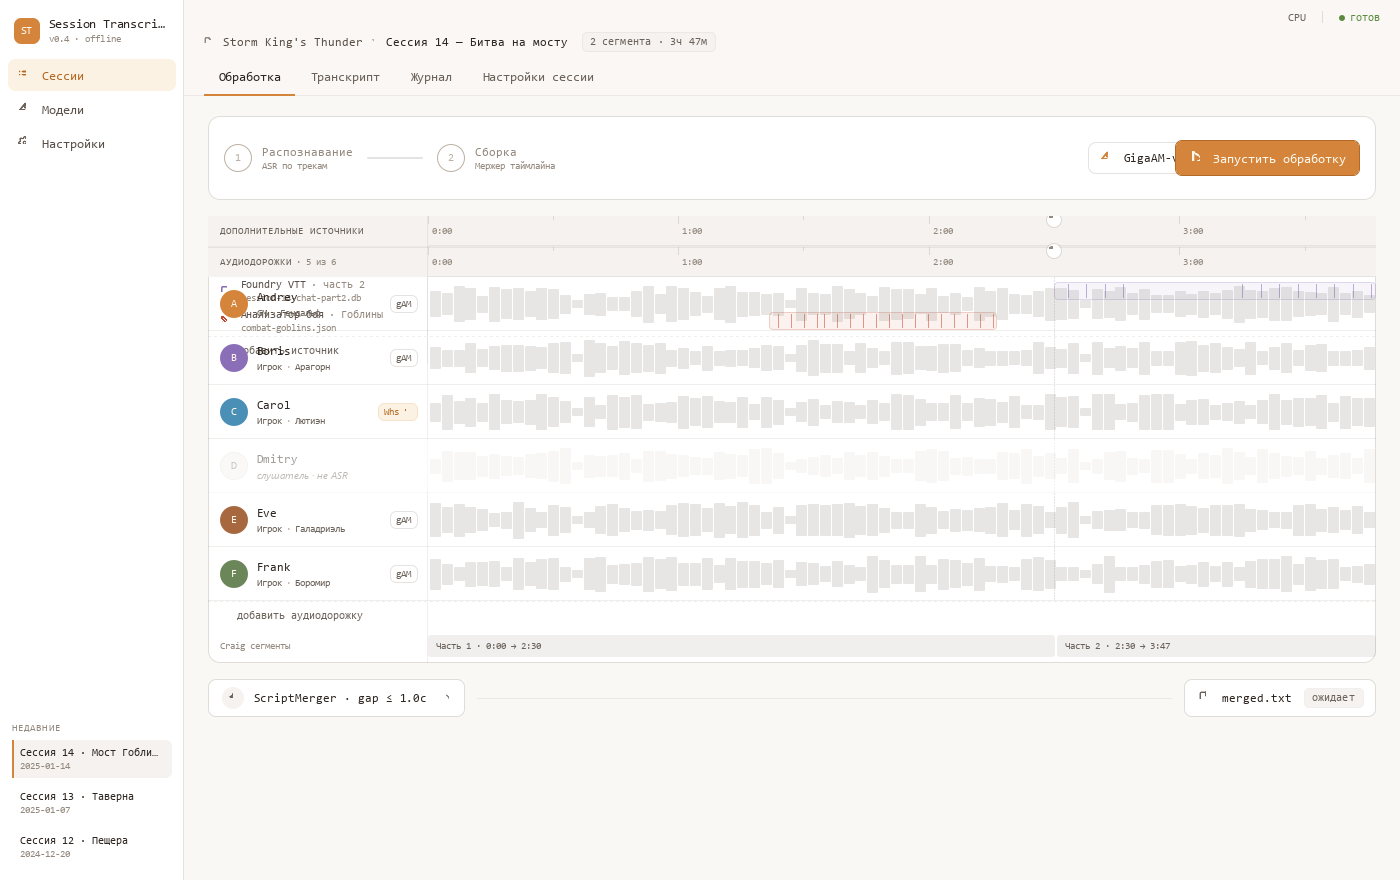
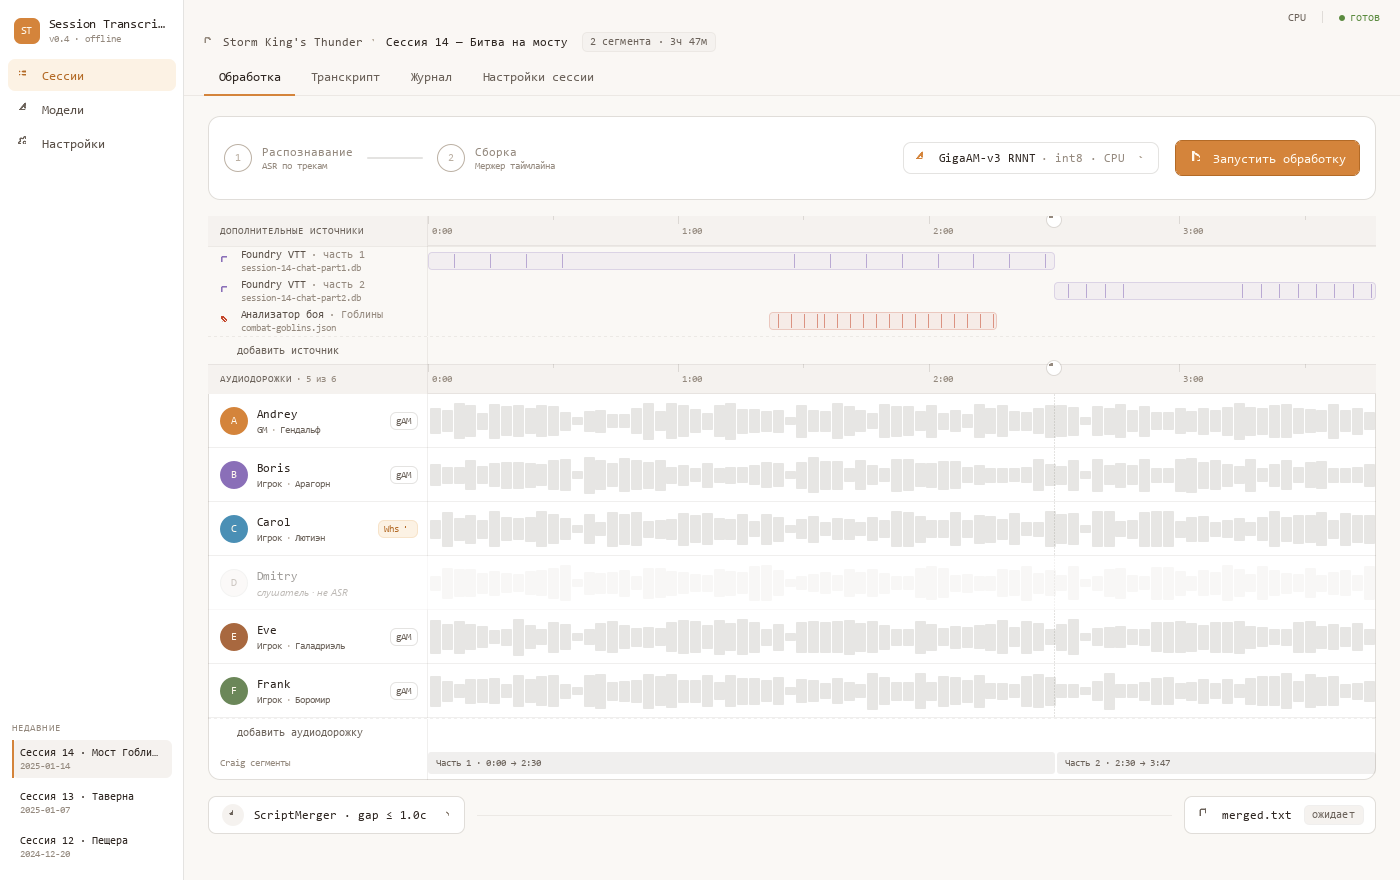
fix(ui): Timeline layout — RunControl width, source lanes height
Two layout bugs surfaced on the first headless screenshot pass:

1. RunControl (the accent "Запустить обработку" area) was an Item
   with implicitHeight but no implicitWidth, and its idle/done/
   running children used anchors.right. In a RowLayout that made
   the Item claim zero horizontal space, so it overlapped the
   EngineBar chip to its left. Fix: publish implicitWidth derived
   from whichever phase-specific child is currently visible
   (idleButton / doneRow / runningCard).

2. The source-lanes container used ``implicitHeight:
   childrenRect.height`` while its ColumnLayout was ``anchors.fill:
   parent``. Anchored children don't contribute to childrenRect,
   so the container collapsed to 0 and the source rows rendered
   outside its bounds, overlapping the tracks panel below. Fix:
   give the ColumnLayout an id (sourcesCol) + top-only anchors,
   and bind the container's ``Layout.preferredHeight`` to
   ``sourcesCol.implicitHeight``. The top-border Rectangle gets
   z: 1 so it sits above the layout's border.

docs/screenshots/qml/timeline.png regenerated from the new layout
— phase-control chip and Run button no longer collide; source
lanes render as three distinct rows (Foundry part 1, Foundry
part 2, Анализатор боя) above the six track rows.

diff --git a/ui/qml/screens/TimelineScreen.qml b/ui/qml/screens/TimelineScreen.qml
@@ -197,8 +197,16 @@ Rectangle {
                             }
 
                             // ── Source lanes ──────────────────────
+                            // Rectangle + ColumnLayout: the layout is
+                            // top-anchored (not anchors.fill) so the
+                            // Rectangle can derive its height from the
+                            // layout's implicitHeight. anchors.fill +
+                            // implicitHeight: childrenRect.height would
+                            // collapse to zero because anchored children
+                            // don't contribute to childrenRect.
                             Rectangle {
                                 Layout.fillWidth: true
+                                Layout.preferredHeight: sourcesCol.implicitHeight
                                 color: Theme.bg
 
                                 Rectangle {
@@ -207,10 +215,14 @@ Rectangle {
                                     anchors.top: parent.top
                                     height: 1
                                     color: Theme.borderSoft
+                                    z: 1
                                 }
 
                                 ColumnLayout {
-                                    anchors.fill: parent
+                                    id: sourcesCol
+                                    anchors.left: parent.left
+                                    anchors.right: parent.right
+                                    anchors.top: parent.top
                                     spacing: 0
 
                                     Repeater {
@@ -233,8 +245,6 @@ Rectangle {
                                         label: "добавить источник"
                                     }
                                 }
-
-                                implicitHeight: childrenRect.height
                             }
 
                             // ── Tracks header ─────────────────────

diff --git a/ui/qml/timeline/RunControl.qml b/ui/qml/timeline/RunControl.qml
@@ -34,8 +34,19 @@ Item {
 
     implicitHeight: 52
 
+    //: Publish the width of whichever state-specific child is currently
+    //: visible so the surrounding RowLayout in TimelineScreen allocates
+    //: enough horizontal space — without this the Item is sized 0 and
+    //: its anchored children render on top of EngineBar to its left.
+    implicitWidth: {
+        if (root.phase === "done") return doneRow.implicitWidth
+        if (root.phase === "asr" || root.phase === "merge") return runningCard.implicitWidth
+        return idleButton.implicitWidth
+    }
+
     // Idle / failed → single primary "Запустить" button.
     PrimaryButton {
+        id: idleButton
         anchors.right: parent.right
         anchors.verticalCenter: parent.verticalCenter
         visible: root.phase === "idle" || root.phase === "failed"
@@ -50,6 +61,7 @@ Item {
     // opens the produced .txt via OS default handler (wired at
     // TimelineScreen level through `openOutputClicked`).
     RowLayout {
+        id: doneRow
         anchors.right: parent.right
         anchors.verticalCenter: parent.verticalCenter
         visible: root.phase === "done"